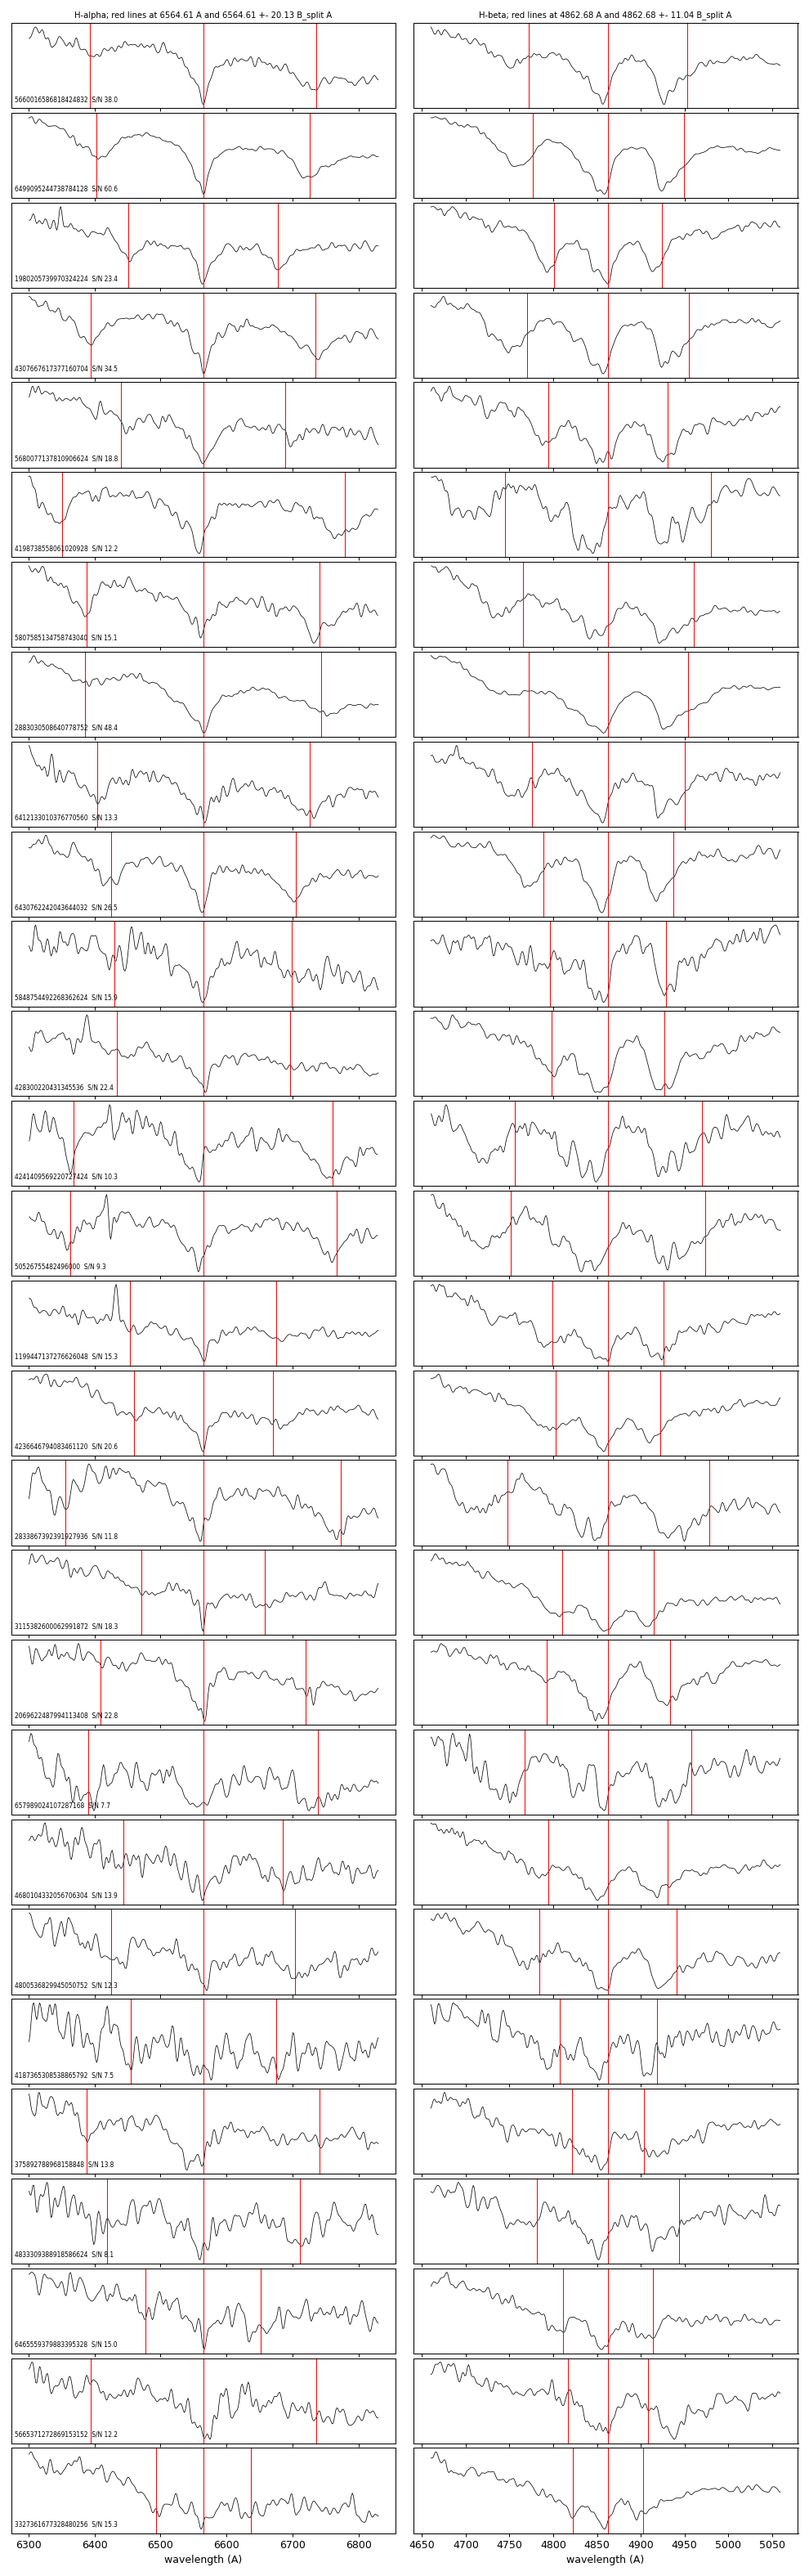
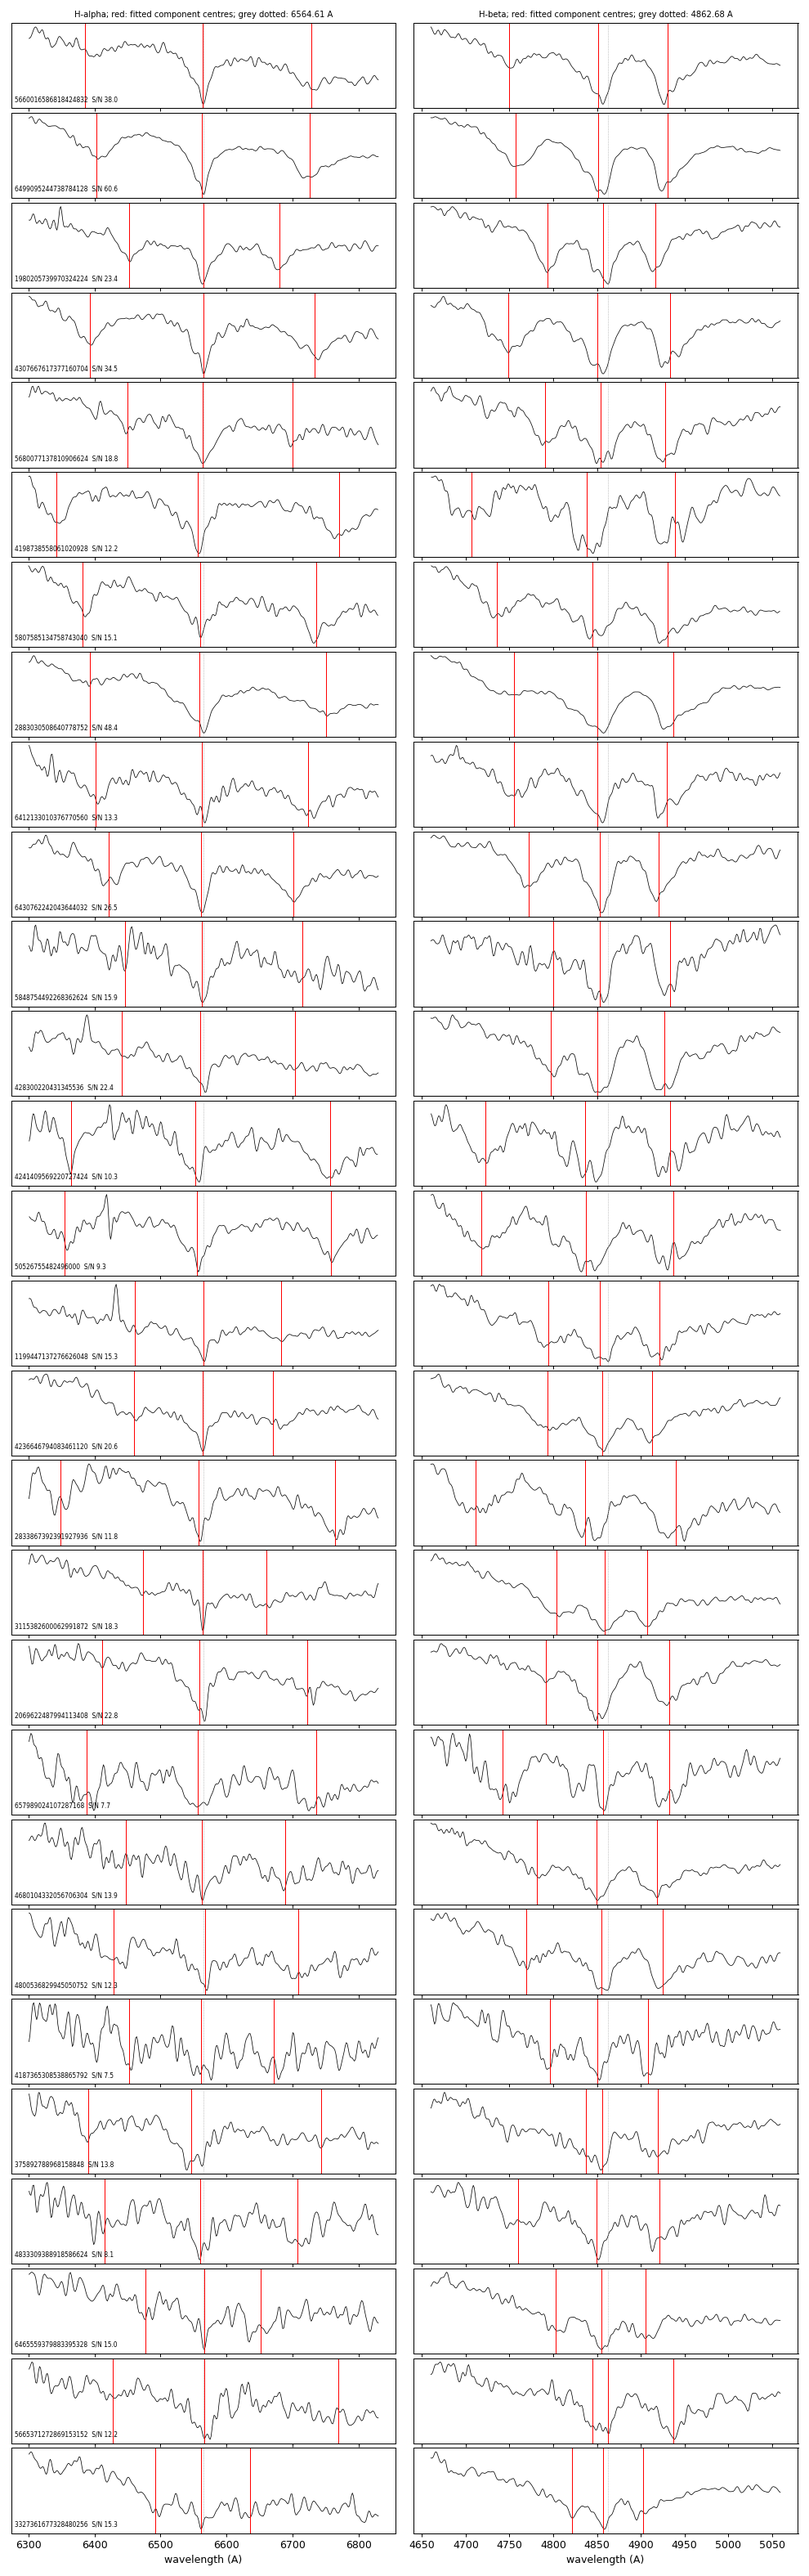
Report fitted Zeeman component centres; widen shift range

Changed region(s): [[0.3636, 0.0, 0.3939, 0.0311]]

diff --git a/scripts/zeeman_split.py b/scripts/zeeman_split.py
@@ -1,7 +1,8 @@
 """Zeeman splitting of H-alpha and H-beta in SDSS-V spectra.
 Model per line: linear continuum x (1 - broad concentric Gaussian - three Gaussian absorption components with free centres,
 widths and depths). B_split = half-separation of the outer components / (4.67e-13 lambda0^2 [A/G]), i.e. 20.13 A/MG (H-alpha)
-and 11.04 A/MG (H-beta).
+and 11.04 A/MG (H-beta); it uses only the separation of the two outer components. Fitted component centres, the common shift of
+the central component and the asymmetry (red minus blue outer offset) are also reported.
 Usage: python zeeman_split.py tables/magnetic_zeeman.csv  (columns gaia_dr3, sdss_id, spectrum = coadd or visit MJD)"""
 import sys, numpy as np, pandas as pd
 from scipy.optimize import least_squares
@@ -22,11 +23,11 @@ def fit(x, y, iv, l0, dl0):
     for dl in dl0 * np.array([0.6, 0.8, 1.0, 1.25, 1.6]):
         for sw in (40, 80):
             p0 = [med, 0, 0.15, sw, 0.2, 6, 0.15, 8, 0.15, 8, dl, dl, 0]
-            lo = [0, -np.inf, 0, 15, 0, 1.5, 0, 1.5, 0, 1.5, 5, 5, -15]; hi = [np.inf, np.inf, 1, 300, 1, 40, 1, 60, 1, 60, 400, 400, 15]
+            lo = [0, -np.inf, 0, 15, 0, 1.5, 0, 1.5, 0, 1.5, 5, 5, -40]; hi = [np.inf, np.inf, 1, 300, 1, 40, 1, 60, 1, 60, 400, 400, 40]
             r = least_squares(lambda p: (model(p, x, l0) - y) * w, p0, bounds=(lo, hi), max_nfev=4000)
             if best is None or r.cost < best.cost:
                 best = r
-    chi2r = 2 * best.cost / (len(x) - len(best.x)); C = np.linalg.inv(best.jac.T @ best.jac) * max(chi2r, 1)
+    chi2r = 2 * best.cost / (len(x) - len(best.x)); C = np.linalg.pinv(best.jac.T @ best.jac) * max(chi2r, 1)
     return best.x, C
 
 
@@ -40,6 +41,9 @@ def measure(sdss_id, spectrum="coadd"):
         m = (lam > WIN[k][0]) & (lam < WIN[k][1]); p, C = fit(lam[m], f[m], iv[m], L0[k], 6.0 * K[k])
         out[f"B_split_{k}_MG"] = round((p[10] + p[11]) / 2 / K[k], 2)
         out[f"e_B_split_{k}_MG"] = round(0.5 * np.sqrt(C[10, 10] + C[11, 11] + 2 * C[10, 11]) / K[k], 2)
+        l0 = L0[k] + p[12]
+        out[f"{k}_sigma_minus_A"] = round(l0 - p[10], 1); out[f"{k}_pi_A"] = round(l0, 1); out[f"{k}_sigma_plus_A"] = round(l0 + p[11], 1)
+        out[f"{k}_shift_A"] = round(p[12], 1); out[f"{k}_asym_A"] = round(p[11] - p[10], 1)
     return out
 
 

diff --git a/scripts/figures.py b/scripts/figures.py
@@ -28,16 +28,16 @@ def zeeman():
     fig, ax = plt.subplots(len(t), 2, figsize=(11, 1.25 * len(t)), sharex="col")
     for i, (_, r) in enumerate(t.iterrows()):
         w, f, iv = spectrum_for(r); m = (iv > 0) & np.isfinite(f)
-        for j, (l0, k, B, lo, hi) in enumerate(((6564.61, 20.13, r.B_split_Ha_MG, 6300, 6830), (4862.68, 11.04, r.B_split_Hb_MG, 4660, 5060))):
+        for j, (ln, l0, lo, hi) in enumerate((("Ha", 6564.61, 6300, 6830), ("Hb", 4862.68, 4660, 5060))):
             s = m & (w > lo) & (w < hi); y = gaussian_filter1d(f[s], 1.5); y = y / np.median(y)
-            ax[i, j].plot(w[s], y, "k", lw=0.6)
-            for x in (l0 - B * k, l0, l0 + B * k):
+            ax[i, j].plot(w[s], y, "k", lw=0.6); ax[i, j].axvline(l0, color="0.6", lw=0.6, ls=":")
+            for x in (r[f"{ln}_sigma_minus_A"], r[f"{ln}_pi_A"], r[f"{ln}_sigma_plus_A"]):
                 ax[i, j].axvline(x, color="r", lw=0.8)
             ax[i, j].set_yticks([])
             if j == 0:
                 ax[i, j].text(0.01, 0.08, f"{r.gaia_dr3}  S/N {r.snr}", transform=ax[i, j].transAxes, fontsize=6)
     ax[-1, 0].set_xlabel("wavelength (A)"); ax[-1, 1].set_xlabel("wavelength (A)")
-    ax[0, 0].set_title("H-alpha; red lines at 6564.61 A and 6564.61 +- 20.13 B_split A", fontsize=8); ax[0, 1].set_title("H-beta; red lines at 4862.68 A and 4862.68 +- 11.04 B_split A", fontsize=8)
+    ax[0, 0].set_title("H-alpha; red: fitted component centres; grey dotted: 6564.61 A", fontsize=8); ax[0, 1].set_title("H-beta; red: fitted component centres; grey dotted: 4862.68 A", fontsize=8)
     plt.tight_layout(h_pad=0.1); plt.savefig(f"{F}/magnetic_zeeman_halpha_hbeta.png", dpi=90); plt.close()
 
 

diff --git a/README.md b/README.md
@@ -13,7 +13,7 @@ The scripts download the public data and recompute the tables. Data were retriev
 
 | file | content | script |
 |---|---|---|
-| `tables/magnetic_zeeman.csv` | 28 white dwarfs: H-alpha and H-beta outer-component separations | `zeeman_split.py` |
+| `tables/magnetic_zeeman.csv` | 28 white dwarfs: H-alpha and H-beta outer-component separations and fitted component centres | `zeeman_split.py` |
 | `tables/carbon_white_dwarfs.csv` | 3 white dwarfs: line cross-correlation (C II, C I, H I, He I), H-alpha depth, GALEX | `carbon_lines.py`, `galex_colours.py` |
 | `tables/carbon_5208047381438507520_optical_CII_features.csv` | Gaussian fits to 9 optical C II features | `carbon_lines.py` |
 | `tables/carbon_5208047381438507520_cos_features.csv` | HST/COS G130M equivalent widths and C II 1334/1335 core velocities | `cos_lines.py` |
@@ -30,7 +30,7 @@ Figures in `figures/` are made by `scripts/figures.py`.
   - one broad concentric Gaussian;
   - three Gaussian absorption components with free centres, widths and depths.
 
-  B_split is the half-separation of the outer components divided by 4.67×10⁻¹³ λ0² (20.13 Å/MG at H-alpha, 11.04 Å/MG at H-beta). This is a linear-Zeeman scale, not a model-atmosphere field.
+  B_split is the half-separation of the two outer components divided by 4.67×10⁻¹³ λ0² (20.13 Å/MG at H-alpha, 11.04 Å/MG at H-beta); it uses only the outer-component separation. This is a linear-Zeeman scale, not a model-atmosphere field. The table also gives the fitted component centres (`*_sigma_minus_A`, `*_pi_A`, `*_sigma_plus_A`), the shift of the central component from the laboratory wavelength (`*_shift_A`, allowed range ±40 Å) and the asymmetry (red minus blue outer offset, `*_asym_A`).
 - **Line cross-correlation.**
   - The pseudo-continuum is a running 85th percentile over 120 Å.
   - Templates use the 15 strongest NIST ASD vacuum lines per species (`data/nist_vacuum_lines.json`, regenerated by `nist_lines.py`).
